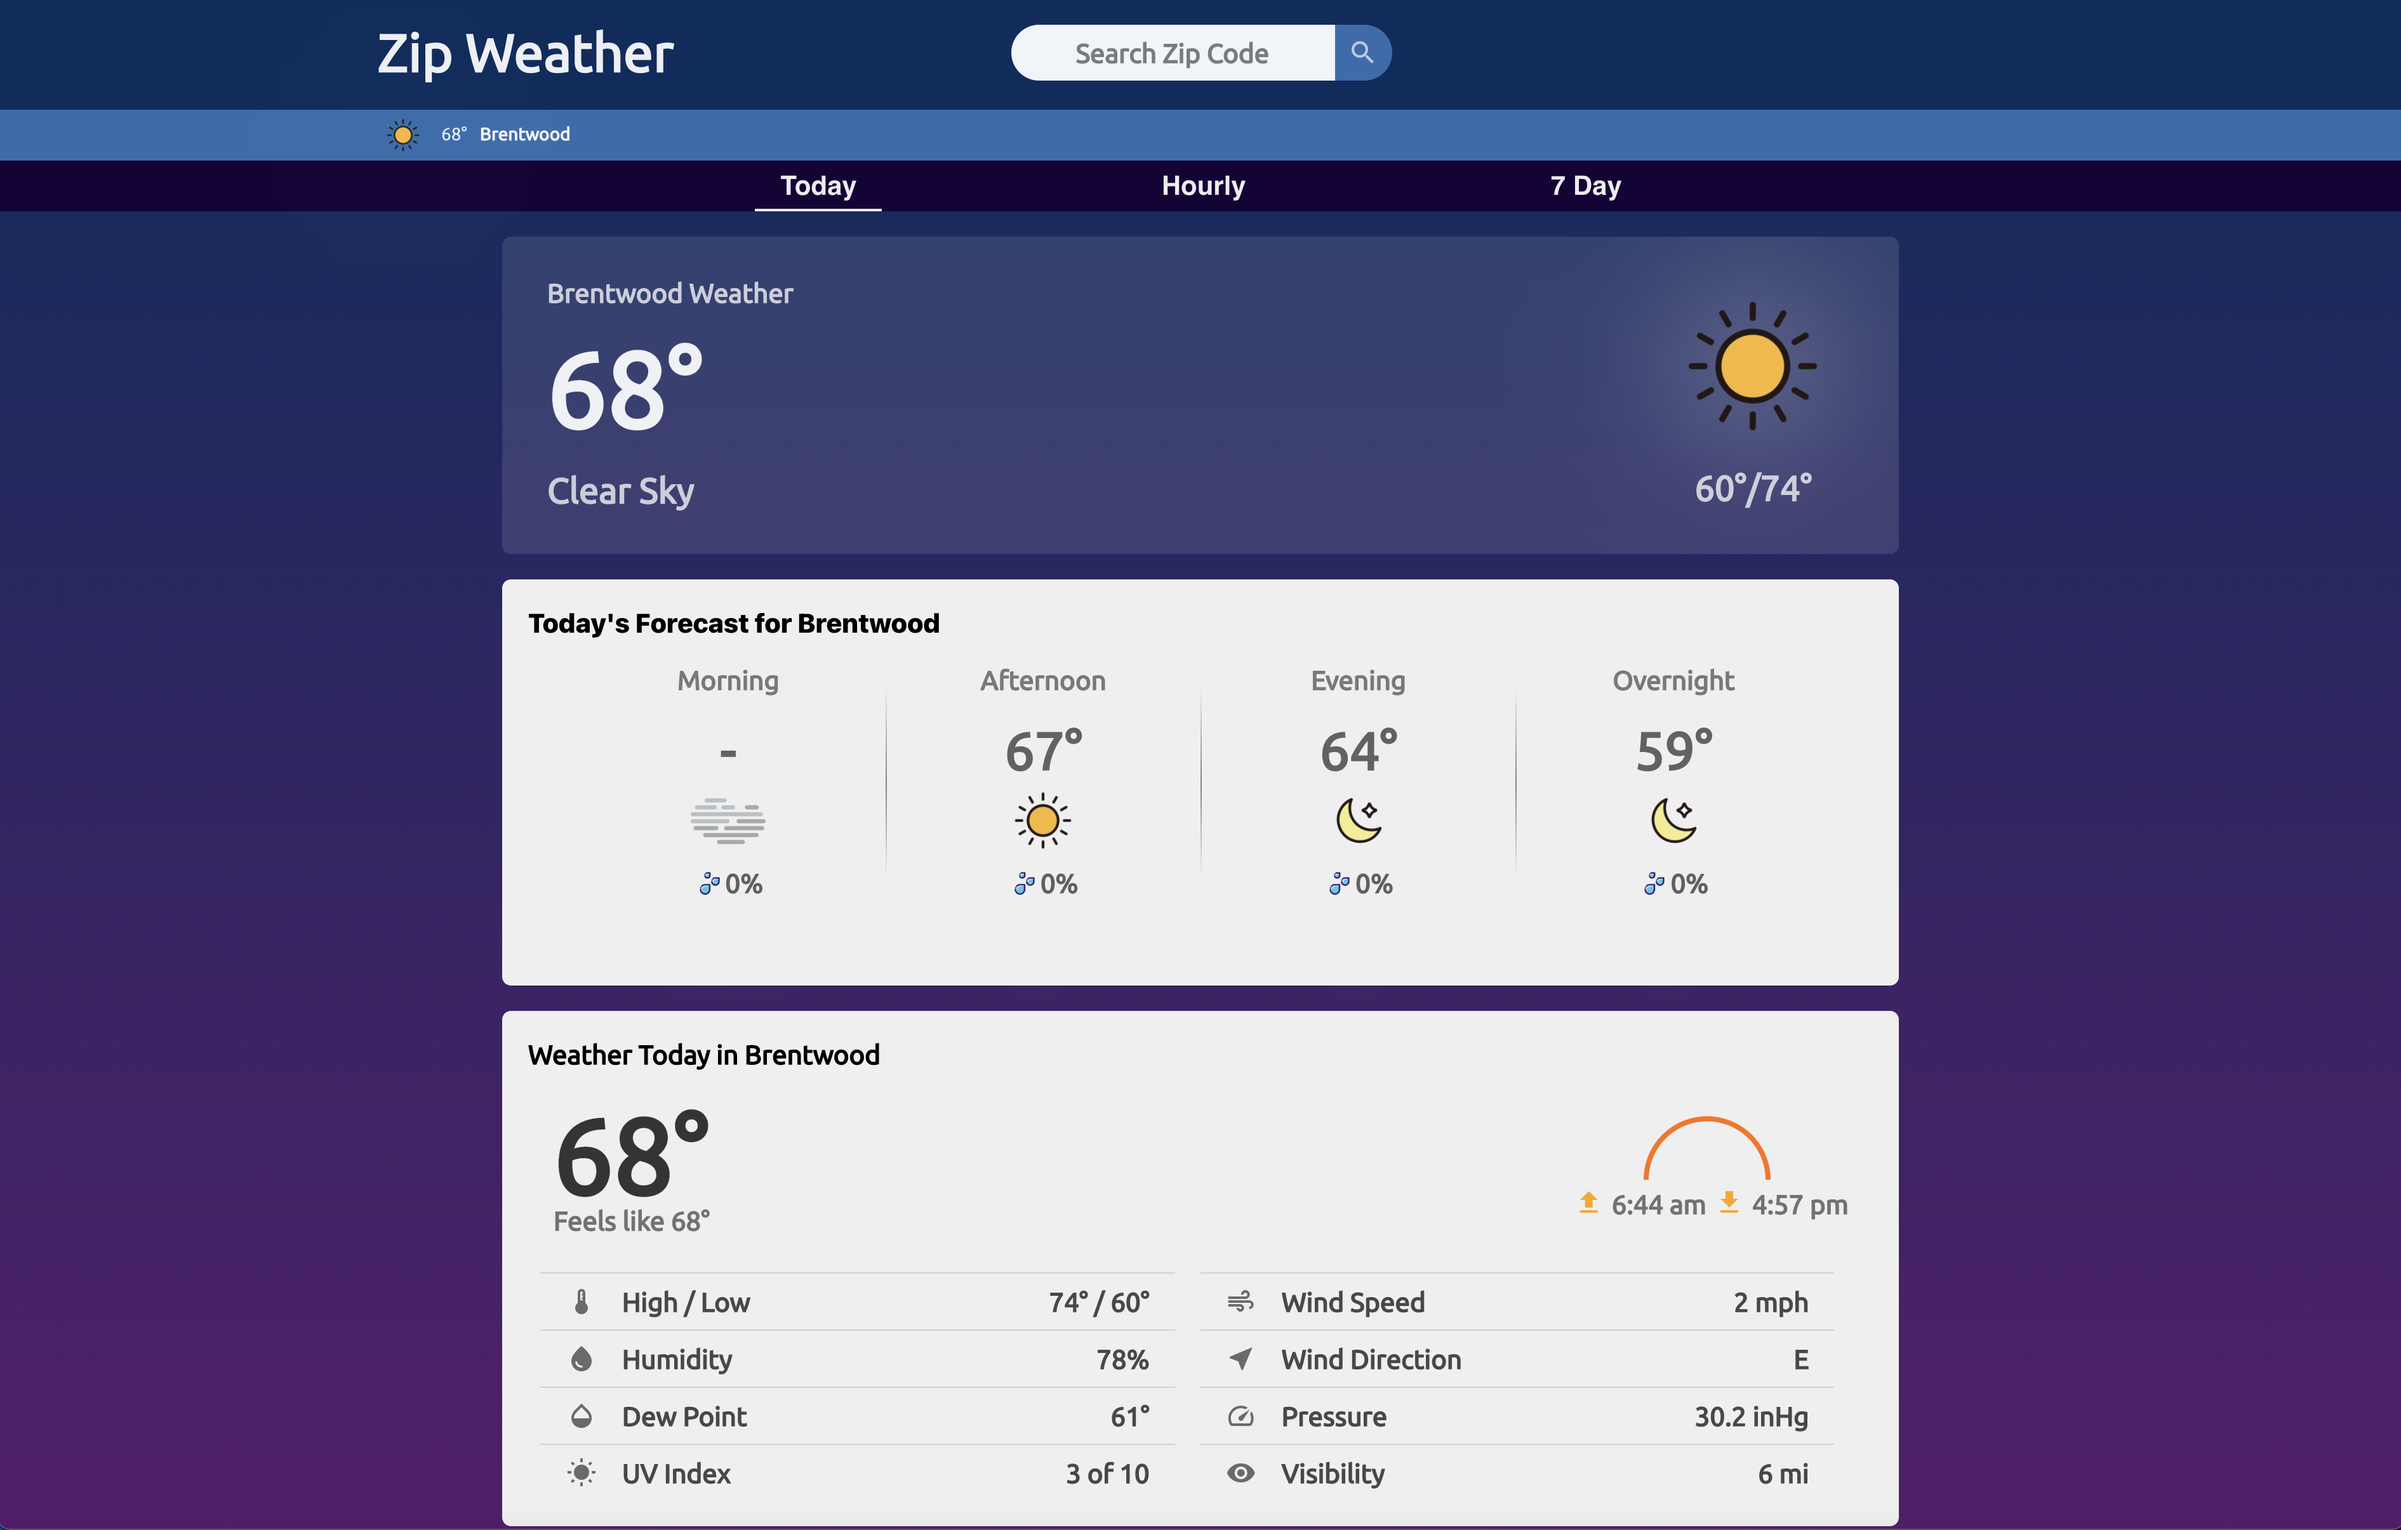
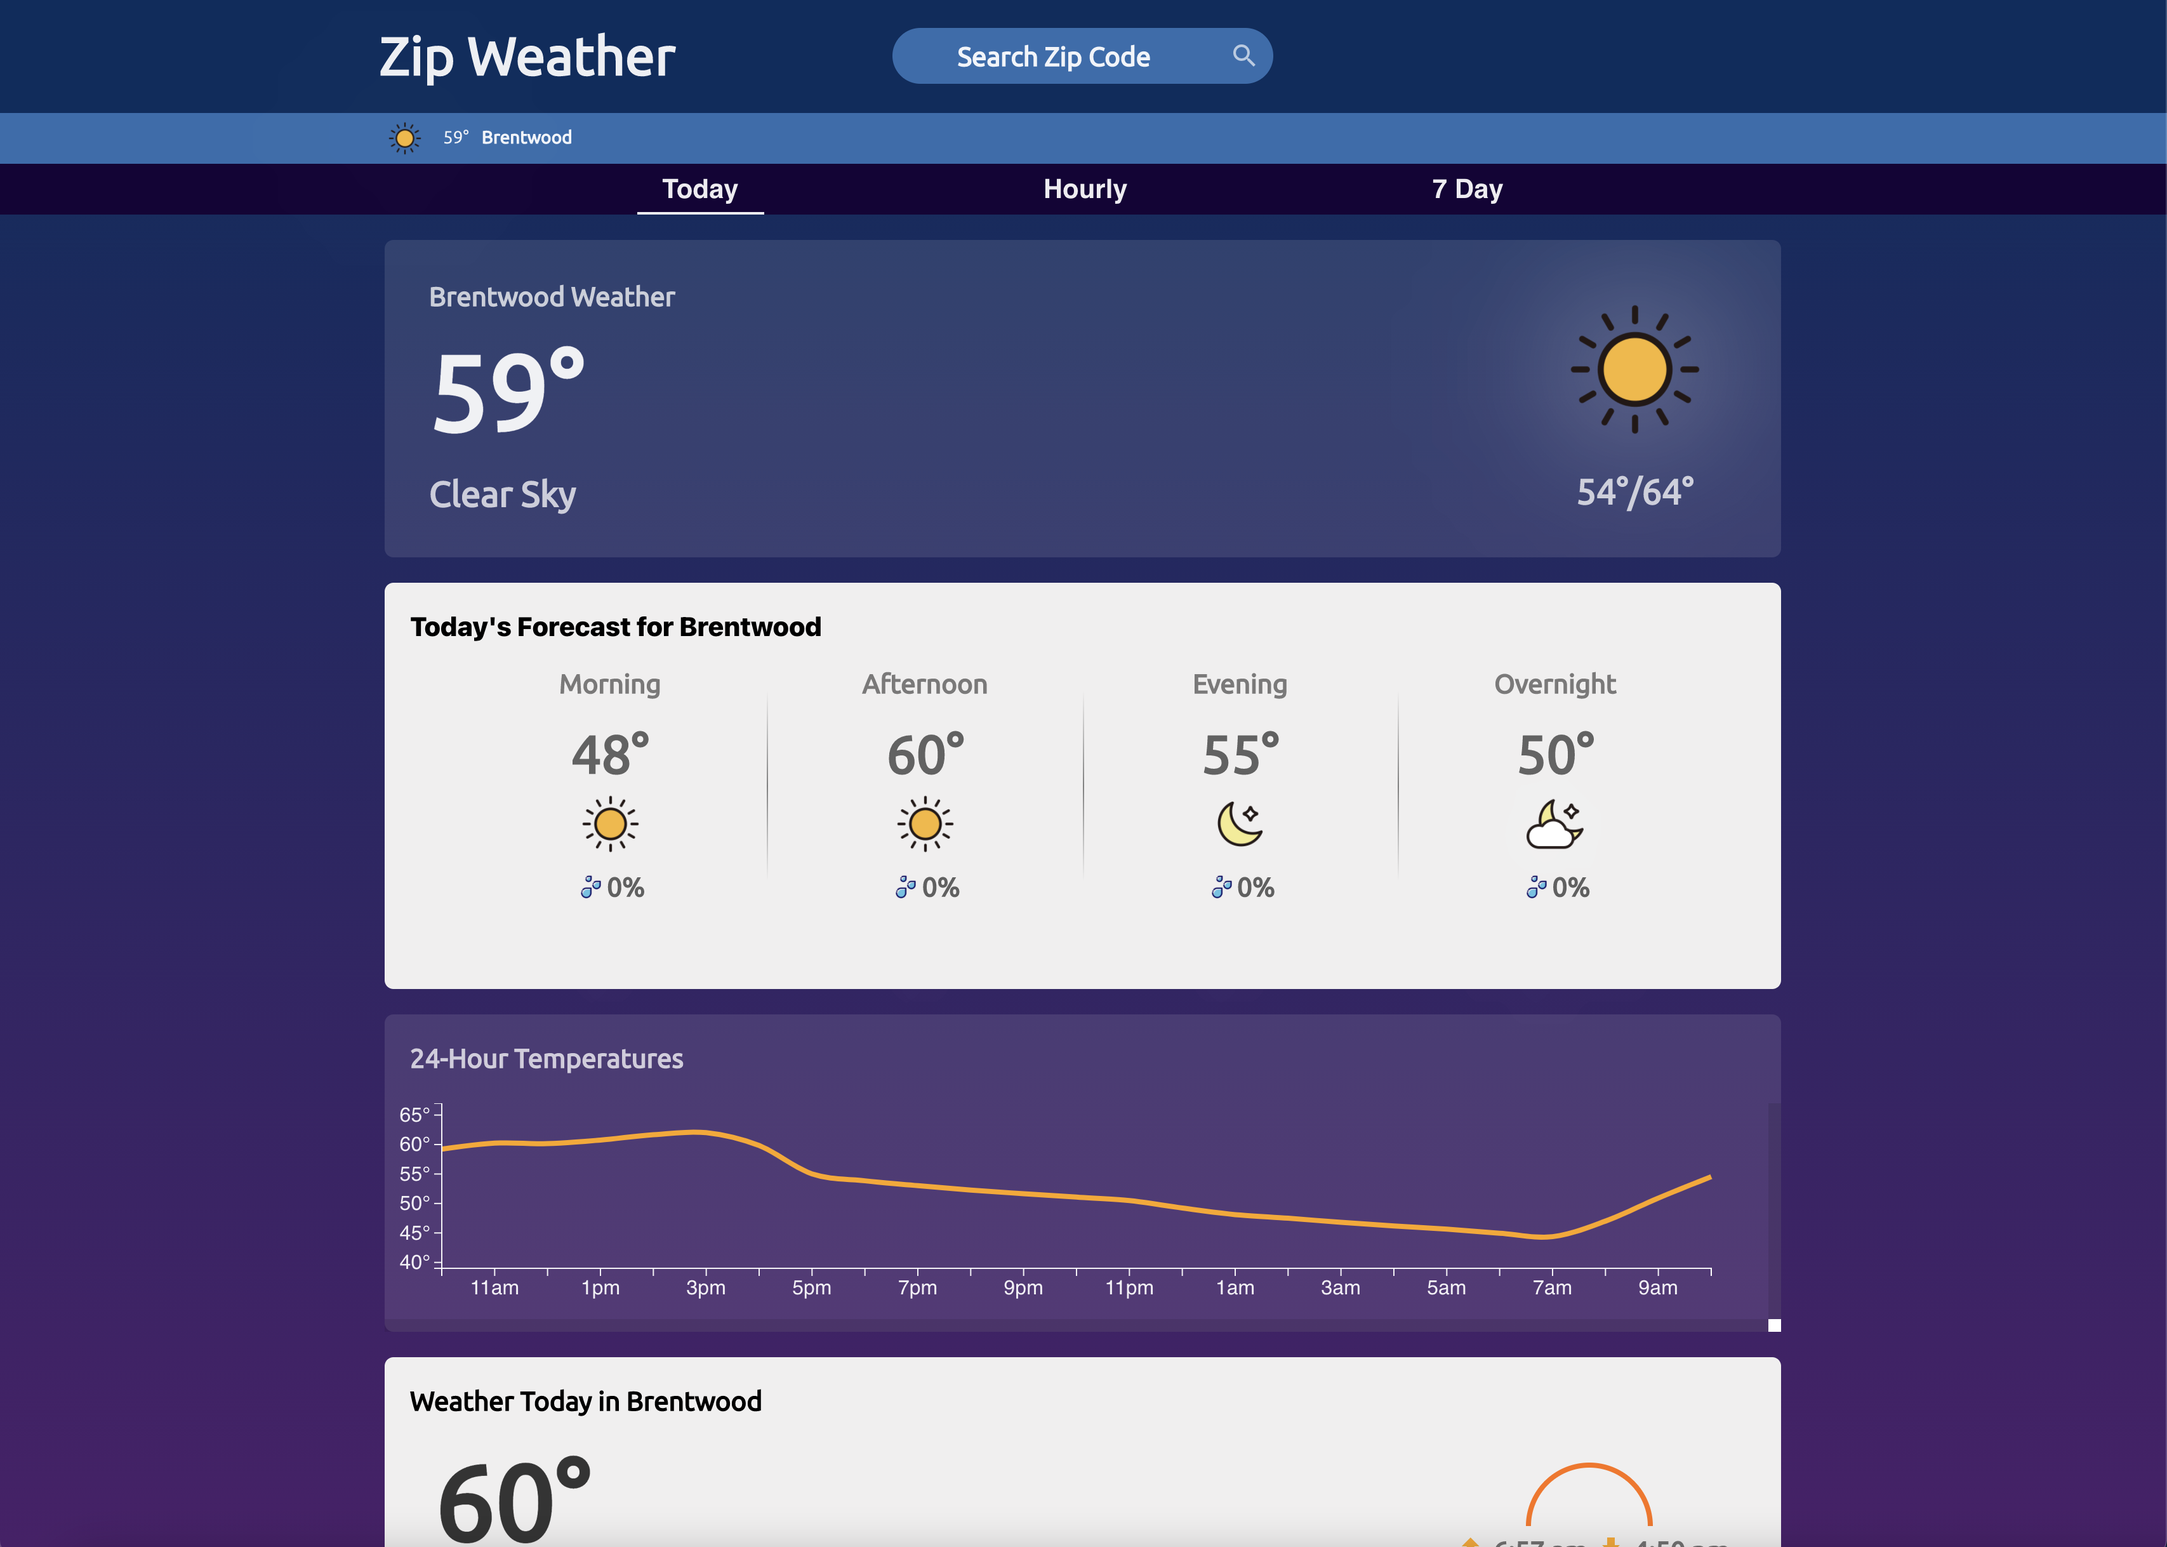
Update README file with details and images about the different components of the application

diff --git a/src/components/TempLineGraph/TempLineGraph.scss b/src/components/TempLineGraph/TempLineGraph.scss
@@ -5,15 +5,37 @@
 #templinegraph-container {
   width: 100%;
   max-width: $break-mid;
-  height: 200px;
+  height: 250px;
   margin: $padding-small auto 0 auto;
-  padding-left: $padding-graph;
   border-radius: $radius;
-  overflow: scroll;
   background-color: $color-translucent;
   display: flex;
+  flex-direction: column;
   align-items: center;
   justify-content: flex-start;
   color: $color-font-light;
   font-family: $font-primary;
+}
+
+#svg-wrapper {
+  width: 100%;
+  height: 100%;
+  overflow: scroll;
+  padding-left: $padding-graph;
+}
+
+#linegraph-header {
+  margin: 0;
+  font-size: $font-bity;
+  font-weight: $font-mid-weight;
+  opacity: 0.8;
+  width: 100%;
+  text-align: left;
+  padding: $padding-small;
+}
+
+@media (min-width: $break-small) {
+  #linegraph-header {
+    font-size: $font-small;
+  }
 }

diff --git a/src/components/TempLineGraph/TempLineGraph.jsx b/src/components/TempLineGraph/TempLineGraph.jsx
@@ -74,7 +74,10 @@ export default function TempLineGraph ({ hourly, timeOffset }) {
 
     return (
         <div id="templinegraph-container">
-            <svg ref={svgRef}></svg>
+            <p id="linegraph-header">24-Hour Temperatures</p>
+            <div id="svg-wrapper">
+                <svg ref={svgRef}></svg>
+            </div>
         </div>
     )
 }

diff --git a/README.md b/README.md
@@ -1,39 +1,126 @@
-## Setup 
+# Zip Weather
 
-1. Clone the repo
-2. Rename the folder to your Project, you can use the `mv` command like `mv mern-boilerplate yourprojectname`
-3. Delete the `.git` file, when you are in the root of the file, you can press `ls` and you should see a `.git` file, then go ahead and run `rm -rf .git`
+### Developed with **React**, **D3** and **Sass** by John Teckemeyer
 
+---
 
-#### Setup your git repo
+---
 
-1. go to github and create your github and create a repo (Without a readme or liscense you can add that later!)
-2.  Then follow the directions on github that says ```…or create a new repository on the command line```
+## Table Contents
 
-it should look like this
+- [Overview](#overview)
+- [Website](#website)
+- [Features](#features)
+  - [The Header](#the-header)
+  - [The Menu](#the-menu)
+  - [Current Weather](#current-weather)
+  - [Today's Forecast](#todays-forecast)
+  - [Temperature Forecast](#temperature-forecast)
+  - [All Weather Details](#all-weather-details)
+  - [24 Hour Forecast](#24-hour-forecast)
+  - [7 Day Forecast](#7-day-forecast)
+- [Code](#code)
+  - [Creating The Gameboard](#creating-the-gameboard)
+  - [Exposing The Cells](#exposing-the-cells)
 
-```
-git init
-git add .
-git commit -m "first commit"
-git remote add origin git@git.generalassemb.ly:SEI-CC/test.git // this will be whatever your address will be
-git push -u origin master
-```
+---
 
-#### Setup the App
+---
 
-```npm install```
+## Overview
 
-*DOTENV*
+---
 
-`touch .env`
+_Zip Weather_ is an online application that displays the current weather and 24 hour and 7 day forcasts for a given area. It utilizes the OpenWeather API for the up-to-date data and D3 for the 24 hour temperature line graph. The objective with this application was to further development my skills in React, working with 3rd party data and CSS/Sass. This also gave me the opportunity to use D3 to visualize data, which I have just recently began learning.
 
-add your variables
+![Minesweeper](./public/zipweather.png)
 
-```
-DATABASE_URL=mongodb://localhost:27017/testagramV2
-BUCKET_NAME=catcollectorone
-SECRET=mysecretforjwt
-```
+---
 
-The app is configured, to use those respective key names for the database, jwt secret and aws bucket, of course you'll have your own values
+---
+
+## Website
+
+Check out Zip Weather
+[here](https://ziipweather.herokuapp.com/)
+
+---
+
+---
+
+## Features
+
+---
+
+### _The Header_:
+
+![Header](./public/header.png)  
+The header, naturally located at the top of the page, is where the user will find the search bar with which they can input a zipcode for anywhere in the U.S. and get the weather data for that area. The sub-header holds a quick reference to the current weather, temperature and city name for the currently selected zipcode.
+
+---
+
+### _The Menu_:
+
+![Menu](./public/menu.png)  
+The menu, located right below the header and sub-header, is a simple, responsive and accessible navigation. It only has 3 choices and will always show which page the user is on.
+
+---
+
+### _Current Weather_:
+
+![Current-Weather](./public/currentweather.png)  
+The current weather component is pretty simple in that it only shows location, current temperature, high and low temperatures for the day, and the current general weather in both text and icon representation.
+
+---
+
+### _Today's Forecast_:
+
+![Today's Forecast](./public/todayforecast.png)  
+The day's forecast consists of temperature, general weather (represented as an icon) and the chance of percipitation for the four quarters of the day.
+
+---
+
+### _Temperature Forecast_:
+
+![Temperature Forecast](./public/temperaturechart.png)  
+This component uses D3.js to visualize the change of temperature for the next 24 hours.
+
+---
+
+### _All Weather Details_:
+
+![All Weather Details](./public/todayallweather.png)  
+The day has more than just temperatures, so this is where all the most popular weather metrics can be found for the day. In the top right, you can also find the sunrise and sunset.
+
+---
+
+### _24 Hour Forecast_:
+
+![24 Hour Forecast](./public/hourly.png)
+On the second page, the user can find the weather data for each hour for the next 24 hours. As a default, each hour only shows time, temperature, general weather, chance of percipitation and wind speed and direction.
+
+![One Hour Details](./public/onehour.png)
+Upon clicking an hour, the hour component expands and displays more metrics: perceived temperature, humidity and uv index.
+
+---
+
+### _7 Day Forecast_:
+
+![7 Day Forecast](./public/sevenday.png)  
+On the third page can be found the 7 day forecast. Like the 24 hour forecast, each day has a minimized setting with basically the same metrics as the minimized hour forecast. However, upon click the minimized day, it expands and display futher details for both the day and night of that particular date. Both have humidity and uv index, but the day also has sunrise and sunset times and the night has moonrise and moonset times as well as the stage of the moon.
+
+---
+
+---
+
+## Code
+
+---
+
+### _Creating The Gameboard_:
+
+![Wireframe1](./public/images/Creategame.png)
+
+### _Exposing The Cells_:
+
+![Wireframe2](./public/images/Exposecells.png)
